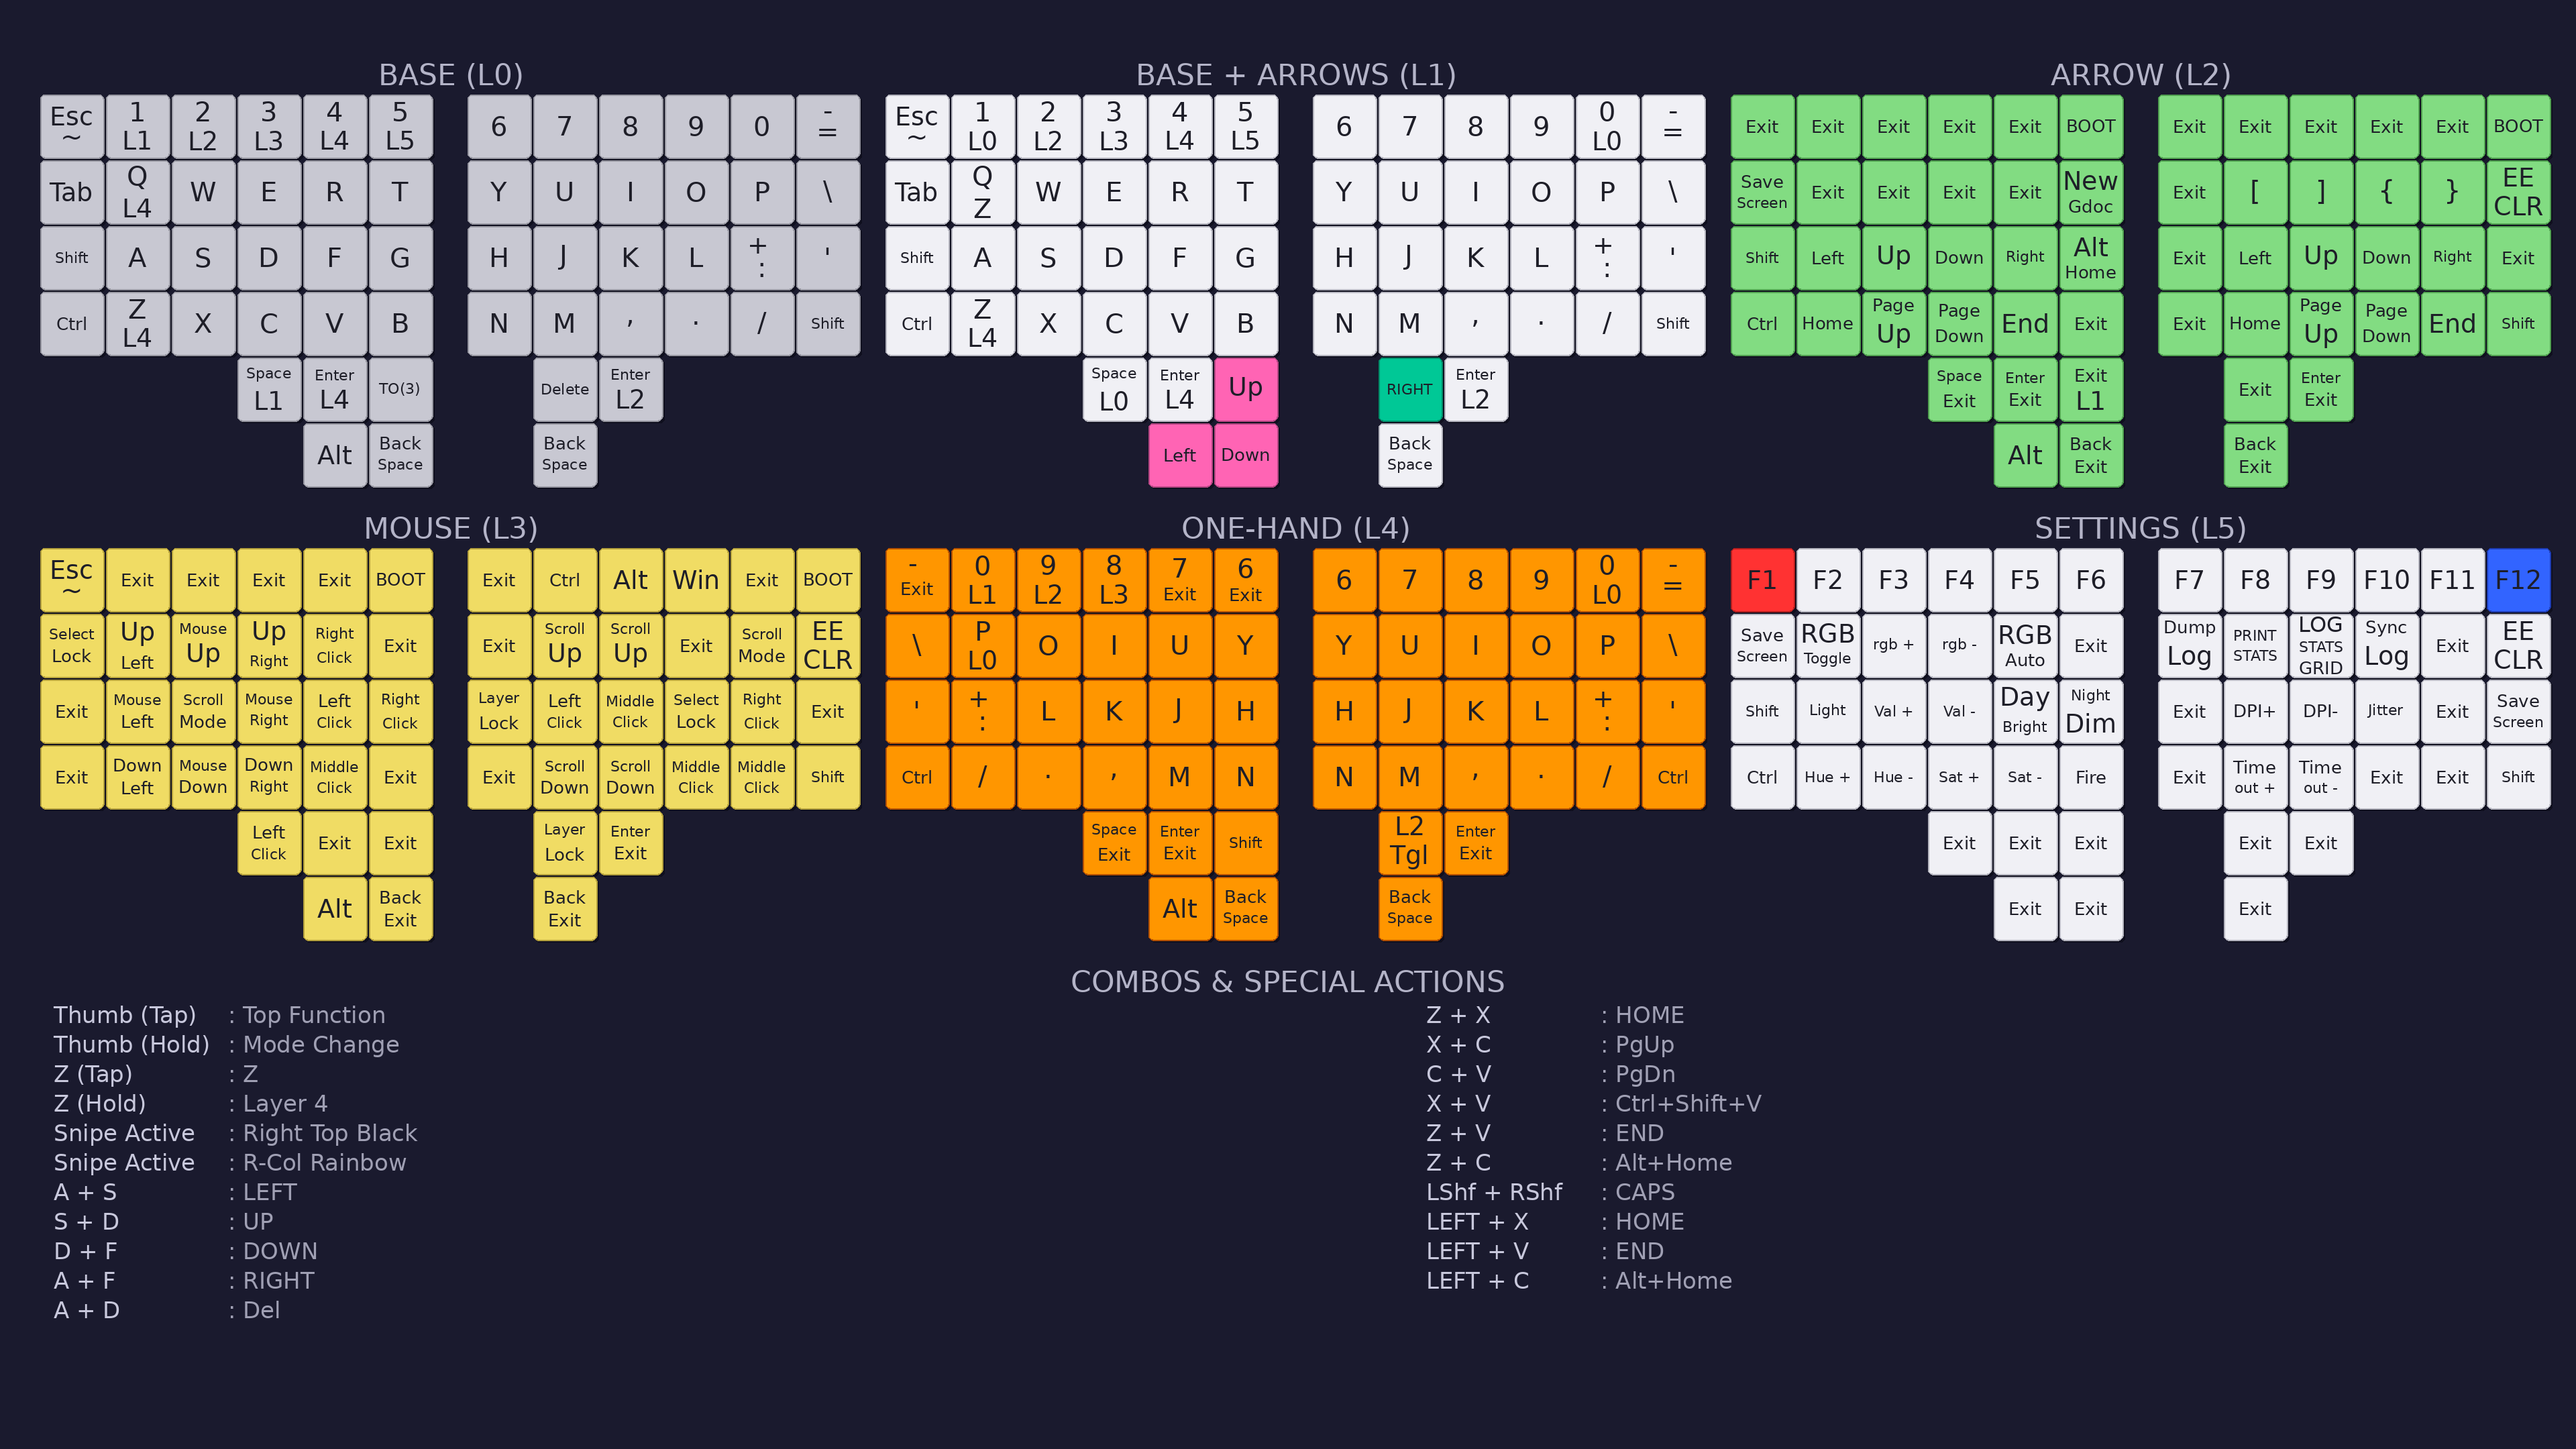
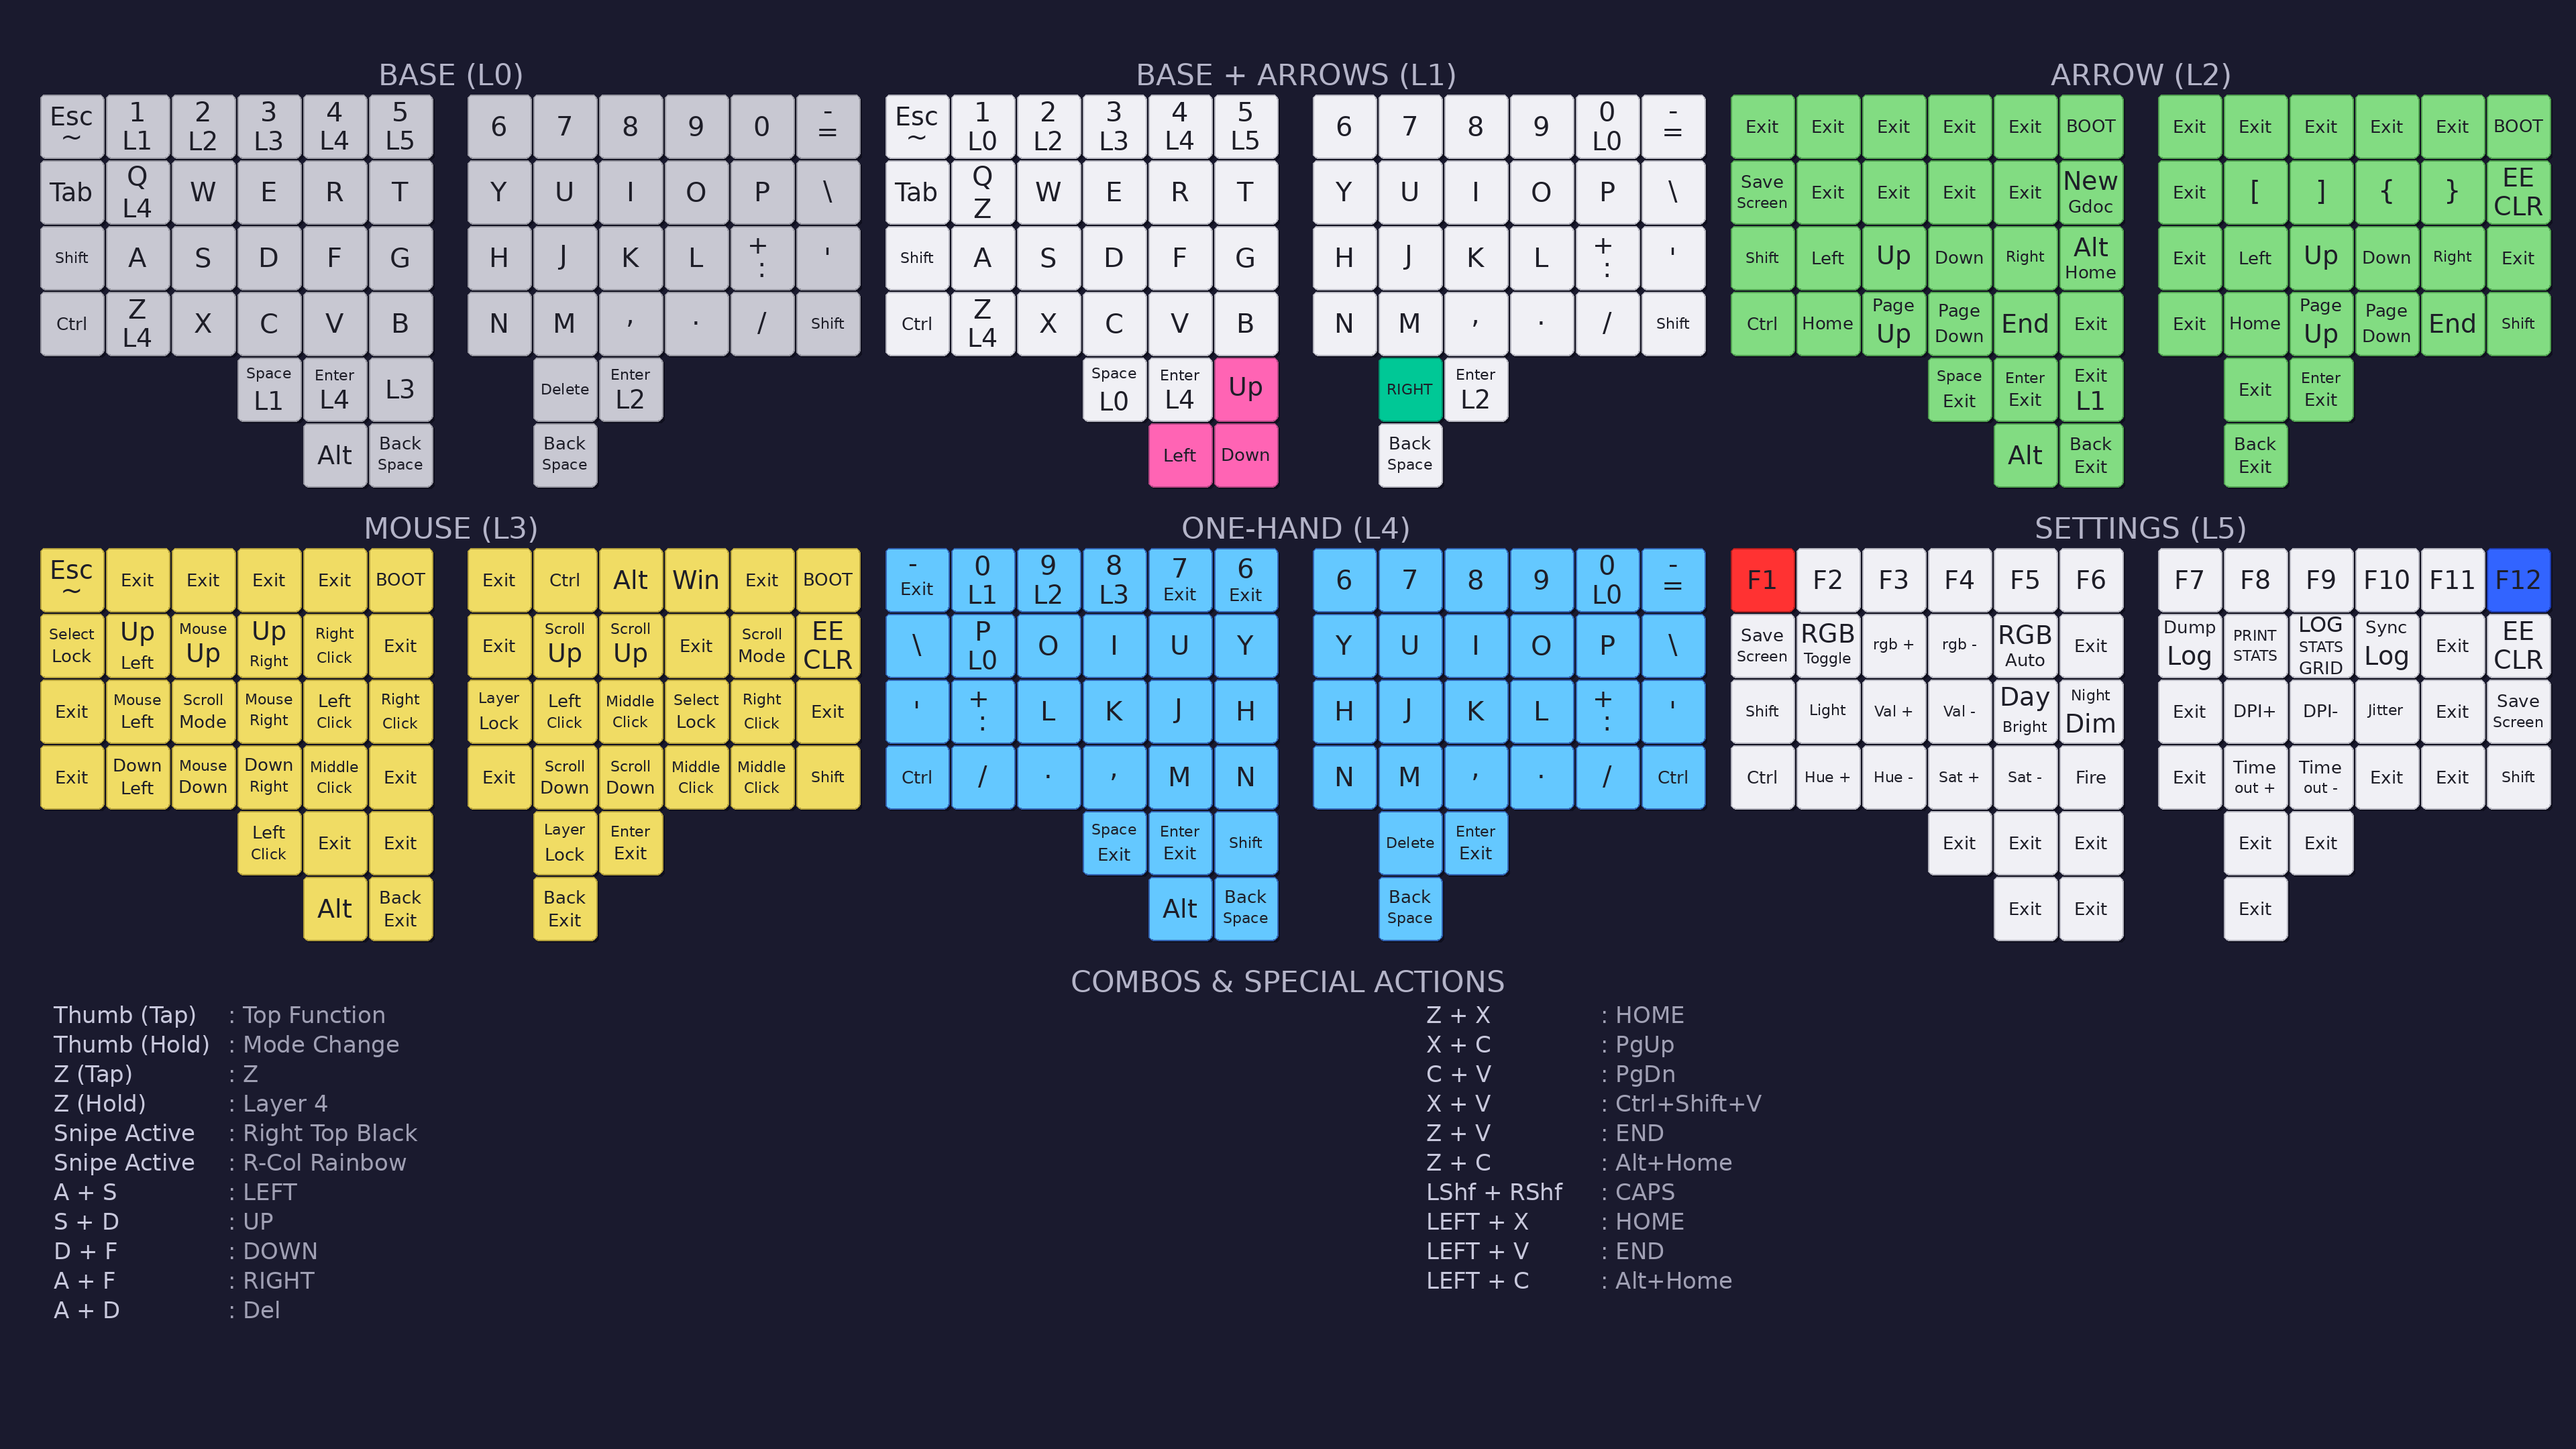
Update Layer 4: improve visual distinction and layout consistency
- Updated Layer 4 RGB indicator to a breathing blue effect for better distinction from the Mouse layer.
- Changed Layer 4 right thumb key to KC_DEL to match the Base Layer layout.
- Annotated jitter logging throttle in mouse.c.

Changed region(s): [[0.3438, 0.3722, 0.6875, 0.6514]]

diff --git a/scripts/layout_common.py b/scripts/layout_common.py
@@ -13,7 +13,7 @@ LAYER_COLORS_NORM = {
     1: (0.95, 0.95, 0.95),   # White
     2: (0.7, 1.0, 0.7),      # Green (Arrow)
     3: (1.0, 1.0, 0.7),      # Yellow (Mouse)
-    4: (1.0, 0.5, 0.0),      # Orange (One-Hand)
+    4: (0.5, 0.8, 1.0),      # Light Blue (One-Hand)
     5: (0.95, 0.95, 0.95),   # White (Settings)
 }
 
@@ -22,7 +22,7 @@ LAYER_COLORS_255 = {
     1: (240, 240, 245),      # White
     2: (130, 220, 130),      # Green (Arrow)
     3: (240, 220, 100),      # Yellow (Mouse)
-    4: (255, 150, 0),        # Orange (One-Hand)
+    4: (100, 200, 255),      # Light Blue (One-Hand)
     5: (240, 240, 245),      # White (Settings)
 }
 
@@ -32,7 +32,7 @@ KEY_BORDER_COLORS = {
     1: (180, 180, 190),      # Gray for white keys
     2: (80, 160, 80),
     3: (180, 160, 60),
-    4: (180, 80, 0),
+    4: (50, 100, 180),
     5: (180, 180, 190),
 }
 
@@ -420,6 +420,12 @@ def simplify_key(key_code, layer_num=None):
     mo_match = re.match(r"MO\((\d+)\)", key_code)
     if mo_match:
         layer = mo_match.group(1)
+        return f"L{layer}"
+
+    # Handle TO(layer)
+    to_match = re.match(r"TO\((\d+)\)", key_code)
+    if to_match:
+        layer = to_match.group(1)
         return f"L{layer}"
 
     # Handle TD(...)

diff --git a/keymap/features/mouse.c b/keymap/features/mouse.c
@@ -310,11 +310,17 @@ report_mouse_t housekeeping_mouse_task(report_mouse_t mouse_report) {
       // A streak of MOUSE_JITTER_STREAK_THRESHOLD+ events means the user is consistently moving the ball slowly,
       // so we stop filtering and let the movement through to the host.
       if (jitter_streak < MOUSE_JITTER_STREAK_THRESHOLD) {
+        static uint32_t num_filtered = 0;
         static uint32_t last_jitter_log = 0;
-        if (timer_elapsed32(last_jitter_log) > 1000) {
+        // Throttle jitter logging to once every 60 seconds to prevent 'qmk console' flooding
+        if (timer_elapsed32(last_jitter_log) > 60000) {
           LOG_TIME();
-          uprintf("\033[95mMouse: Jitter Filtered (x=%d, y=%d, streak=%d)\033[0m\n", x, y, jitter_streak);
+          uprintf("\033[95mMouse: Jitter Filtered (x=%d, y=%d, streak=%d, num_filtered=%d)\033[0m\n",
+                                                      x, y, jitter_streak, num_filtered);
           last_jitter_log = now;
+          num_filtered = 0;
+        } else {
+          num_filtered++;
         }
         // Zero out the report so it's ignored by the host AND by the auto-layer logic below
         mouse_report.x = 0;

diff --git a/keymap/keymap.c b/keymap/keymap.c
@@ -1099,7 +1099,7 @@ const uint16_t PROGMEM keymaps[][MATRIX_ROWS][MATRIX_COLS] = {
                   KC_BSLS    , KC_P_TO0, KC_O    , KC_I    , KC_U    , KC_Y    ,   KC_Y, KC_U, KC_I, KC_O, KC_P, KC_BSLS,
                   KC_QUOT, KC_PLUS_COLON, KC_L   , KC_K    , KC_J    , KC_H    ,   KC_H, KC_J, KC_K, KC_L, KC_PLUS_COLON, KC_QUOT,
                   KC_LCTL, KC_SLSH, KC_DOT, KC_COMM , KC_M    , KC_N    ,   KC_N, KC_M, KC_COMM, KC_DOT, KC_SLSH, KC_RCTL,
-                                                  KC_SPC_EXIT, KC_ENT_EXIT, KC_LSFT,   KC_R_L2, KC_ENT_EXIT,
+                                                  KC_SPC_EXIT, KC_ENT_EXIT, KC_LSFT,   KC_DEL, KC_ENT_EXIT,
                                                               KC_LALT, KC_BSPC,   KC_BSPC),
     // Layer 5: Settings Layer - accessed via long press 6
   [5] = LAYOUT(

diff --git a/keymap/features/rgb.c b/keymap/features/rgb.c
@@ -259,7 +259,10 @@ bool housekeeping_rgb_indicators(void) {
   case 4: {
     if (is_keyboard_left()) {
       static const uint8_t left[] = {0, 7, 8, 15, 16, 20, 1, 6, 9, 14, 17, 21, 2, 5, 10, 13, 18, 22, 3, 4, 11, 12, 19, 23, 26, 27, 28, 25, 24};
-      for (int i = 0; i < sizeof(left) / sizeof(left[0]); i++) rgb_matrix_set_color_scaled(left[i], 255, 127, 0);
+      uint8_t breath = scale8(sin8(timer_read() / 12), 128) + 127; // Smooth pulse between 50% and 100% brightness
+      for (int i = 0; i < sizeof(left) / sizeof(left[0]); i++) {
+        rgb_matrix_set_color_scaled(left[i], 0, breath / 4, breath); // Vibrant Breathing Blue
+      }
     }
     break;
   }
